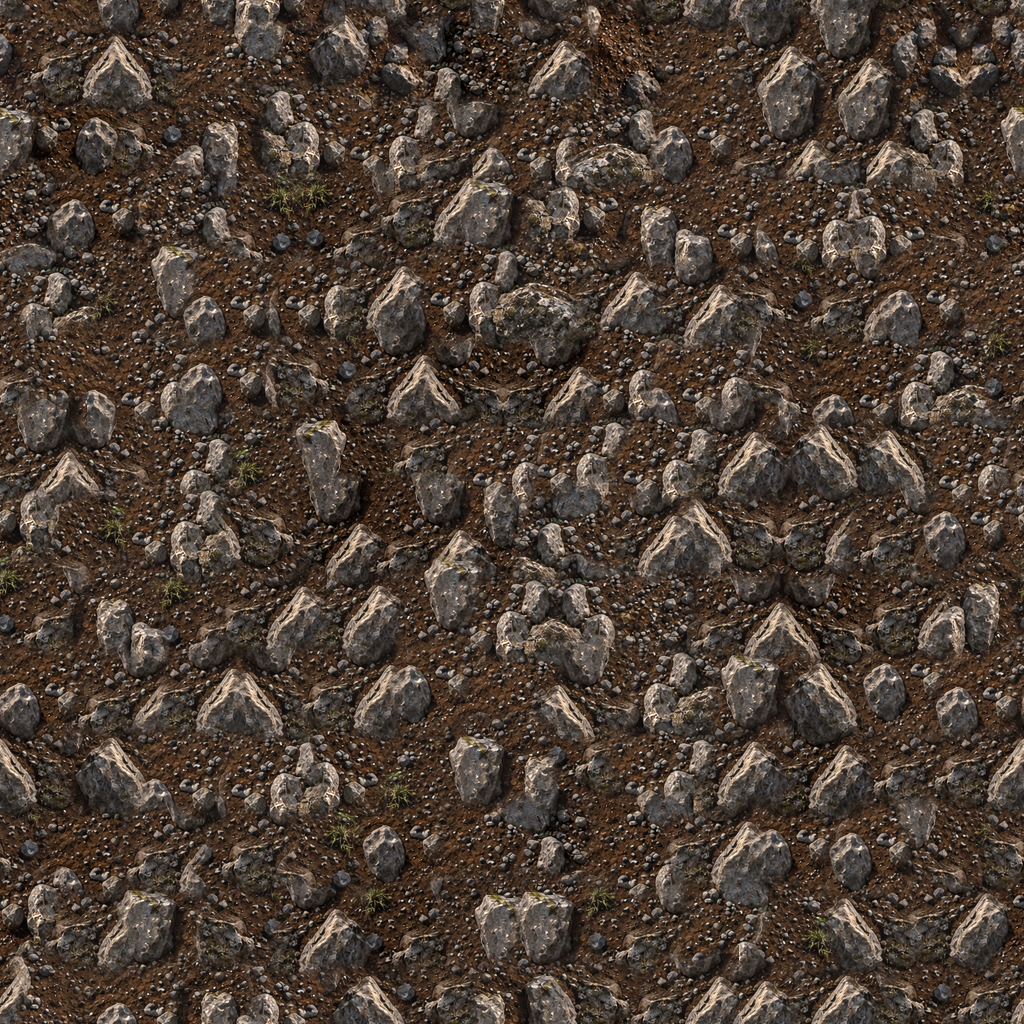
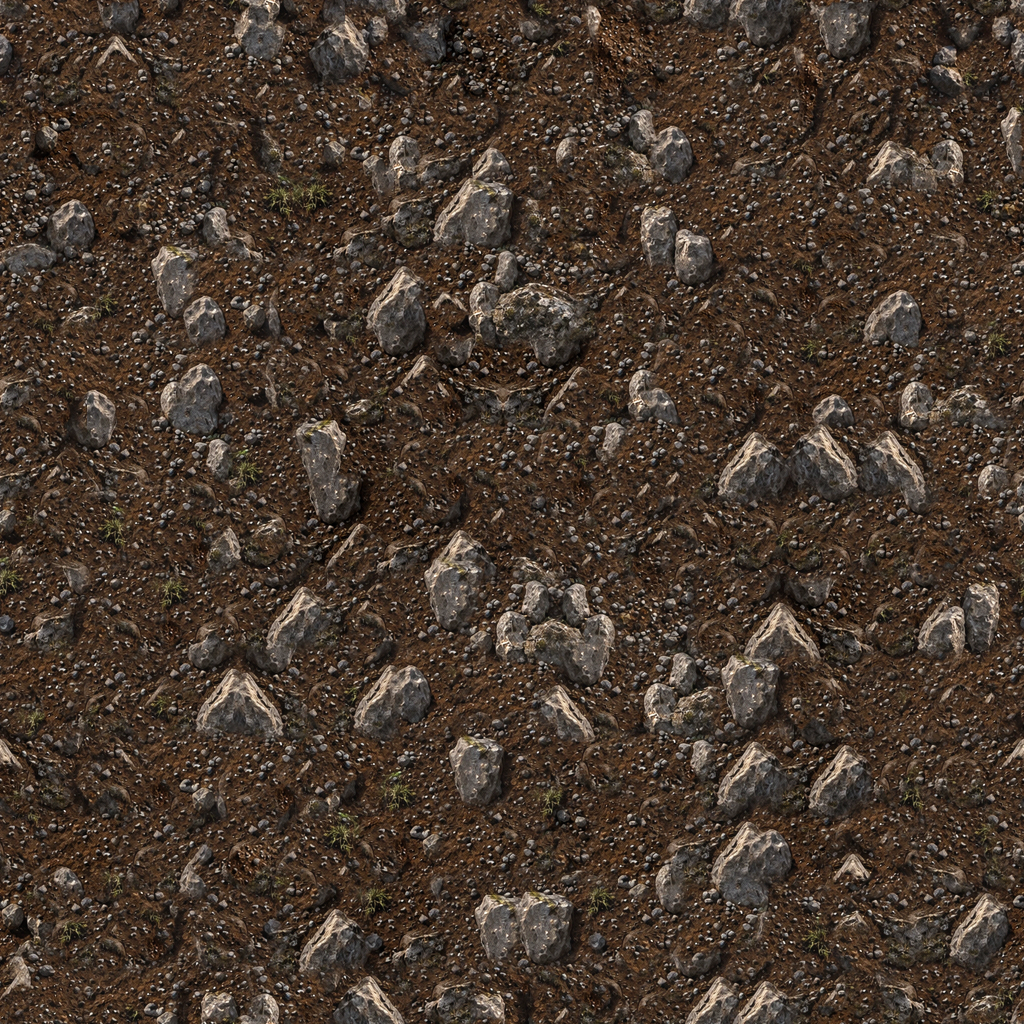
Версия 2026.11.02-114: по критику r36 — каньон: стены тоннелей плитами с трещинами и щебень на полу; долина: валунов вдвое меньше, без повторов
Каньон: задняя стена тоннелей — плиты cave_canyon (родная ×4) в цвете прежней стены; по полу — россыпь песчаникового
щебня в слое растений (чётко при приближении). Долина: dev/tools/thin_boulders.py убирает из грунта повторяющиеся
(и зеркальные) валуны и половину остальных, место заполняется грунтом из другого места родной ×4.

Claude-Session: https://claude.ai/code/session_01JvXrYdG1XCH4i3GESsQzbh

diff --git a/js/terrain_visual.js b/js/terrain_visual.js
@@ -564,7 +564,10 @@ function shadeMaterial(S, mt, x, y, t, capT, d, info, o, isBack) {
     }
   } else if (mt === 12 && (S.tx.rock || S.tx.dirt || S.tx.cave)) {
     // задняя стена: та же порода, что и скала вокруг (в скальных картах), иначе — плиты пещеры
-    if (S.tx.rock) { texAt(S.tx.rock, x + 517, y + 311, o); r = o.r * 1.05 * S.tgR; g = o.g * 1.05 * S.tgG; bl = o.b * 1.05 * S.tgB; o.ga = 0; }
+    if (S.caveBack && S.tx.cave) {   /* v114 (критик r36, каньон: «стены пещер — та же слоистая порода; в эталоне потрескавшиеся плиты»):
+      задняя стена тоннеля — плиты с трещинами (cave_canyon, родная ×4), средний цвет — как у прежней стены из породы (caveBackK) */
+      texAt(S.tx.cave, x, y, o); const K = S.caveBackK; r = o.r * K[0] * S.tgR; g = o.g * K[1] * S.tgG; bl = o.b * K[2] * S.tgB; o.ga = 0; }
+    else if (S.tx.rock) { texAt(S.tx.rock, x + 517, y + 311, o); r = o.r * 1.05 * S.tgR; g = o.g * 1.05 * S.tgG; bl = o.b * 1.05 * S.tgB; o.ga = 0; }
     else if (S.tx.dirt && S.bury) {   /* v94 (эталон valley_tower: стена тоннеля тёмная и ровная — камни на ней не выделяются; у нас — светлые камни и бледные
       круги валунов): тот же грунт, контраст вдвое ниже, темнее */
       texAt(S.tx.dirt, x + 257, y + 131, o); const M = texMeanRGB(S.tx.dirt);
@@ -1068,7 +1071,7 @@ function buildTerrainVisual(T, theme, map, raster, waterY) {
   const capMat = new Uint8Array(16); for (const k of (G.capMats || [1])) capMat[k] = 1;
   const V = getVoronoi();
   const S = {
-    tiles: getTiles(), colOff, vs: V.s, vl: V.l, grassy: !!G.cap.blades && !G.cap.snow, glowTex: G.tex && G.tex.glowTex, glowTex2: G.tex && G.tex.glowTex2, glowRaw: !!(G.tex && G.tex.glowRaw), glowDirt: !!(G.tex && G.tex.glowDirt), glowMin: G.tex && G.tex.glowMin || 150, glowDot: G.tex && G.tex.glowDot || 0.93, glowK: G.tex && G.tex.glowK || 2.4, sod: theme.id === 'valley' || theme.id === 'castle' || theme.id === 'alien', mossLip: theme.id === 'alien', bury: theme.id === 'valley' || theme.id === 'castle', soilBand: theme.id === 'valley' || theme.id === 'castle' ? (() => { const a = new Float32Array(H); for (let yy = 0; yy < H; yy++) a[yy] = 1 + 0.12 * fbm1(yy / 46, seed + 401, 2); return a; })() : null, rootCols: G.tex && G.tex.grass && TexLib.data[G.tex.grass] ? (theme.id === 'valley' || theme.id === 'castle' ? [[83, 100, 49], [68, 75, 38], [51, 44, 29]] : theme.id === 'alien' ? [[70, 66, 40], [52, 50, 30], [40, 34, 24]] /* мох Alien как в эталоне: тёмный оливково-бурый (медиана 65/54/34), а не салатовая полоса */ : [[82, 102, 34], [60, 76, 24], [54, 42, 24]]) : null, tx: { dirt: G.tex && TexLib.data[G.tex.dirt], cave: G.tex && TexLib.data[G.tex.cave], rock: G.tex && TexLib.data[G.tex.rock], concrete: G.tex && TexLib.data[G.tex.concrete], facade: G.tex && TexLib.data[G.tex.facade], cap: G.tex && TexLib.data[G.tex.cap] }, capMean: texMean(G.tex && TexLib.data[G.tex.cap]), capK: (G.tex && G.tex.capK) || 1, texGain: 1, tgR: (G.tex && G.tex.gain) ? (Array.isArray(G.tex.gain) ? G.tex.gain[0] : G.tex.gain) : 1, tgG: (G.tex && G.tex.gain) ? (Array.isArray(G.tex.gain) ? G.tex.gain[1] : G.tex.gain) : 1, tgB: (G.tex && G.tex.gain) ? (Array.isArray(G.tex.gain) ? G.tex.gain[2] : G.tex.gain) : 1, smoothStones: !!G.smoothStones, rimCol: G.stoneRim ? hex2rgb(G.stoneRim) : null, H, pebD: G.pebDensity || 1, snowy: !!G.cap.snow, rubbleCap: theme.id === 'desert', flatSlab: theme.id === 'city', noBoulders: theme.id === 'city', hotCore: !!(G.veins && G.veins.hot), hotRim: G.veins && G.veins.hot ? (() => { const a = new Float32Array(W); for (let x = 0; x < W; x++) { const v = fbm1(x / 70, seed + 141, 2) + 0.4 * fbm1(x / 23, seed + 142, 1); a[x] = Math.max(0, Math.min(1, (v - S_RIM0) / 0.18)); } return a; })() : null, rockDirt: !!G.rockDirt, rimK: G.rimK || 0.2, hullTop: waterY - 300, waterY, backK: G.backK || 1, glass: theme.id === 'tropical', neon: G.neonRim ? G.neonRim.map(hex2rgb) : null, sun: G.sun ? hex2rgb(G.sun) : null, hasWaterline: (theme.id === 'tropical' || theme.id === 'castle') && waterY < H, kelpCol: theme.id === 'tropical' ? [32, 58, 26] : [48, 76, 32], waterDeep: theme.liquid && theme.liquid.deep ? hex2rgb(theme.liquid.deep) : [12, 47, 85],
+    tiles: getTiles(), colOff, vs: V.s, vl: V.l, grassy: !!G.cap.blades && !G.cap.snow, glowTex: G.tex && G.tex.glowTex, glowTex2: G.tex && G.tex.glowTex2, glowRaw: !!(G.tex && G.tex.glowRaw), glowDirt: !!(G.tex && G.tex.glowDirt), glowMin: G.tex && G.tex.glowMin || 150, glowDot: G.tex && G.tex.glowDot || 0.93, glowK: G.tex && G.tex.glowK || 2.4, sod: theme.id === 'valley' || theme.id === 'castle' || theme.id === 'alien', mossLip: theme.id === 'alien', bury: theme.id === 'valley' || theme.id === 'castle', soilBand: theme.id === 'valley' || theme.id === 'castle' ? (() => { const a = new Float32Array(H); for (let yy = 0; yy < H; yy++) a[yy] = 1 + 0.12 * fbm1(yy / 46, seed + 401, 2); return a; })() : null, rootCols: G.tex && G.tex.grass && TexLib.data[G.tex.grass] ? (theme.id === 'valley' || theme.id === 'castle' ? [[83, 100, 49], [68, 75, 38], [51, 44, 29]] : theme.id === 'alien' ? [[70, 66, 40], [52, 50, 30], [40, 34, 24]] /* мох Alien как в эталоне: тёмный оливково-бурый (медиана 65/54/34), а не салатовая полоса */ : [[82, 102, 34], [60, 76, 24], [54, 42, 24]]) : null, tx: { dirt: G.tex && TexLib.data[G.tex.dirt], cave: G.tex && TexLib.data[G.tex.cave], rock: G.tex && TexLib.data[G.tex.rock], concrete: G.tex && TexLib.data[G.tex.concrete], facade: G.tex && TexLib.data[G.tex.facade], cap: G.tex && TexLib.data[G.tex.cap] }, capMean: texMean(G.tex && TexLib.data[G.tex.cap]), capK: (G.tex && G.tex.capK) || 1, texGain: 1, tgR: (G.tex && G.tex.gain) ? (Array.isArray(G.tex.gain) ? G.tex.gain[0] : G.tex.gain) : 1, tgG: (G.tex && G.tex.gain) ? (Array.isArray(G.tex.gain) ? G.tex.gain[1] : G.tex.gain) : 1, tgB: (G.tex && G.tex.gain) ? (Array.isArray(G.tex.gain) ? G.tex.gain[2] : G.tex.gain) : 1, smoothStones: !!G.smoothStones, rimCol: G.stoneRim ? hex2rgb(G.stoneRim) : null, H, pebD: G.pebDensity || 1, snowy: !!G.cap.snow, rubbleCap: theme.id === 'desert', flatSlab: theme.id === 'city', noBoulders: theme.id === 'city', hotCore: !!(G.veins && G.veins.hot), hotRim: G.veins && G.veins.hot ? (() => { const a = new Float32Array(W); for (let x = 0; x < W; x++) { const v = fbm1(x / 70, seed + 141, 2) + 0.4 * fbm1(x / 23, seed + 142, 1); a[x] = Math.max(0, Math.min(1, (v - S_RIM0) / 0.18)); } return a; })() : null, rockDirt: !!G.rockDirt, caveBack: !!(G.tex && G.tex.caveBack), caveBackK: (G.tex && G.tex.caveBackK) || [1, 1, 1], rimK: G.rimK || 0.2, hullTop: waterY - 300, waterY, backK: G.backK || 1, glass: theme.id === 'tropical', neon: G.neonRim ? G.neonRim.map(hex2rgb) : null, sun: G.sun ? hex2rgb(G.sun) : null, hasWaterline: (theme.id === 'tropical' || theme.id === 'castle') && waterY < H, kelpCol: theme.id === 'tropical' ? [32, 58, 26] : [48, 76, 32], waterDeep: theme.liquid && theme.liquid.deep ? hex2rgb(theme.liquid.deep) : [12, 47, 85],
     capCols: G.cap.cols.map(hex2rgb), beach: G.cap.beach ? G.cap.beach.cols.map(hex2rgb) : null,
     beachY: G.cap.beach ? waterY - G.cap.beach.range : 1e9,
     strata: G.strata.map(hex2rgb), L: G.strata.length,
@@ -1960,20 +1963,25 @@ function drawSurfaceDetails(T, theme, seed, waterY, tops, ceils, mat, backArr) {
       }
     }
     // 2б. v104 (критик r35: «тоннель плоский»): щебень на полу тоннелей долины и замков — угловатые камни 2–9 px со светом сверху слева
-    if (theme.id === 'valley' || theme.id === 'castle') {
-      const rubCols = [[92, 86, 78], [78, 72, 64], [104, 98, 88], [68, 62, 54], [86, 82, 76]];
+    // v114 (критик r36, каньон: «карнизы полок из щебня»; эталон — светлая россыпь песчаника по полу тоннелей): и в каньоне, вдвое
+    // гуще; камни — в слое растений (cs): при приближении перерисовываются чётко, а не растягиваются
+    if (theme.id === 'valley' || theme.id === 'castle' || theme.id === 'desert') {
+      const sand = theme.id === 'desert', dens = sand ? 0.22 : 0.07;
+      const rubCols = sand ? [[176, 132, 90], [156, 114, 76], [194, 152, 106], [136, 98, 66], [168, 128, 92]] : [[92, 86, 78], [78, 72, 64], [104, 98, 88], [68, 62, 54], [86, 82, 76]];
       for (let k = 0; k < tops.length; k += 2) {
         const x = tops[k], y = tops[k + 1];
-        if (y > waterY - 4 || !isCaveFloor(x, y) || !flatTop(x, y) || hash3(x, y, seed + 121) > 0.07) continue;
-        const big = hash3(x, y, seed + 122) > 0.78, R = big ? 3 + hash3(x, 1, seed + 123) * 1.6 : 1.1 + hash3(x, 1, seed + 123) * 1.6;
+        if (y > waterY - 4 || !isCaveFloor(x, y) || !flatTop(x, y) || hash3(x, y, seed + 121) > dens) continue;
+        anchor(x, y);
+        const big = hash3(x, y, seed + 122) > (sand ? 0.7 : 0.78), R = (big ? 3 + hash3(x, 1, seed + 123) * 1.6 : 1.1 + hash3(x, 1, seed + 123) * 1.6) * (sand ? 1.35 : 1);
         const col = rubCols[(hash3(x, 2, seed + 124) * rubCols.length) | 0], nv = 5 + ((hash3(x, 3, seed + 125) * 3) | 0), rot = hash3(x, 4, seed + 126) * TAU, cy = y - R * 0.5;
-        c.fillStyle = 'rgba(10,8,6,0.5)'; c.beginPath(); c.ellipse(x + R * 0.3, y + 0.5, R * 1.3, R * 0.4, 0, 0, TAU); c.fill();   // контактная тень
-        const gr = c.createLinearGradient(x - R, cy - R, x + R, cy + R);
+        cs.fillStyle = 'rgba(10,8,6,0.5)'; cs.beginPath(); cs.ellipse(x + R * 0.3, y + 0.5, R * 1.3, R * 0.4, 0, 0, TAU); cs.fill();   // контактная тень
+        const gr = cs.createLinearGradient(x - R, cy - R, x + R, cy + R);
         gr.addColorStop(0, `rgb(${col[0] * 1.3 | 0},${col[1] * 1.3 | 0},${col[2] * 1.28 | 0})`); gr.addColorStop(0.5, `rgb(${col[0]},${col[1]},${col[2]})`); gr.addColorStop(1, `rgb(${col[0] * 0.45 | 0},${col[1] * 0.45 | 0},${col[2] * 0.48 | 0})`);
-        c.fillStyle = gr; c.beginPath();
-        for (let v = 0; v < nv; v++) { const a = rot + v / nv * TAU, rr = R * (0.72 + 0.4 * hash3(x, v + 10, seed + 127)), px = x + Math.cos(a) * rr, py = cy + Math.sin(a) * rr * 0.7; if (v) c.lineTo(px, py); else c.moveTo(px, py); }
-        c.closePath(); c.fill();
+        cs.fillStyle = gr; cs.beginPath();
+        for (let v = 0; v < nv; v++) { const a = rot + v / nv * TAU, rr = R * (0.72 + 0.4 * hash3(x, v + 10, seed + 127)), px = x + Math.cos(a) * rr, py = cy + Math.sin(a) * rr * 0.7; if (v) cs.lineTo(px, py); else cs.moveTo(px, py); }
+        cs.closePath(); cs.fill();
       }
+      anchor(null);
     }
     // 3. Подземный мох / трава с неравным шагом
     let nextMossX = -1;

diff --git a/js/themes.js b/js/themes.js
@@ -44,7 +44,7 @@ const THEMES = {
       strata: ['#e39b5b', '#c97944', '#f2b877', '#b4643a', '#d98b52', '#a8552f', '#eaa66a'], band: 17, bandSharp: 0.55,
       rock: ['#d98b52', '#c47444', '#e8a468', '#b3623a', '#cf8250'],
       pebbles: ['#b98a5e', '#9c6f48', '#d0a57a'],
-      outline: '#4d240f', veins: null, ceiling: null, capMats: [1, 2], tex: { dirt: 'dirt_canyon', rock: 'rock_canyon', cave: 'cave_canyon', cap: 'cap_sand', gain: [0.94, 0.98, 1.08] /* v88: по замеру r34 порода была на 47 % светлее эталона (L 96 против 66); r24: порода каньона была на 22 % ярче эталона */ },
+      outline: '#4d240f', veins: null, ceiling: null, capMats: [1, 2], tex: { dirt: 'dirt_canyon', rock: 'rock_canyon', cave: 'cave_canyon', cap: 'cap_sand', caveBack: true, caveBackK: [2.48, 2.93, 3.46] /* v114: стены тоннелей — плиты cave_canyon, средний цвет как у прежней стены из породы (×1,05 к rock_canyon) */, gain: [0.94, 0.98, 1.08] /* v88: по замеру r34 порода была на 47 % светлее эталона (L 96 против 66); r24: порода каньона была на 22 % ярче эталона */ },
     },
     scatter: ['rock', 'drygrass', 'cactusSmall', 'drygrass', 'rock', 'drygrass', 'skull', 'tumbleweed'], scatterRock: true,
     weather: 'dust', birds: false, ambient: null, ambientSound: 'wind',

diff --git a/index.html b/index.html
@@ -114,7 +114,7 @@
         </div>
       </div>
     </div>
-    <footer class="menu-footer"><span id="game-version">ВЕРСИЯ 2026.11.02-113</span><span>ПЛАНИРУЙ ХОД. МЕНЯЙ ЛАНДШАФТ.</span><span class="footer-status"><i></i> ГОТОВ К БОЮ</span></footer>
+    <footer class="menu-footer"><span id="game-version">ВЕРСИЯ 2026.11.02-114</span><span>ПЛАНИРУЙ ХОД. МЕНЯЙ ЛАНДШАФТ.</span><span class="footer-status"><i></i> ГОТОВ К БОЮ</span></footer>
   </section>
 
   <!-- Онлайн -->

diff --git a/dev/tools/thin_boulders.py b/dev/tools/thin_boulders.py
@@ -1,0 +1,114 @@
+"""Прореживает валуны в грунте (критик r36, долина: «валунов 11,5 % — почти вдвое больше эталона; ряд одинаковых "шатров"»:
+сшивка из эталона брала один и тот же лоскут с валуном много раз, в том числе зеркально).
+
+python dev/tools/thin_boulders.py <родная.webp> <выход.png> [--keep 0.55] [--seed 3]
+затем: python dev/make_native.py <выход.png> <имя> --no-match --lossy --quality 90   (малая — точное уменьшение родной)
+
+1) валуны — серые (ненасыщенные) пятна на малой копии (÷4): сглаженные насыщенность < --S и яркость > --L, компоненты от
+   --min px (мелкая галька меньше — остаётся);
+2) повторы: отпечаток каждого валуна — яркость рамки 12×12 (и зеркальная); похожие (косинус > --sim, размер ±20 %) — одна
+   группа, из группы остаётся один валун;
+3) затем убираются случайные валуны, пока их площадь не станет --keep от исходной;
+4) место убранного валуна (с тенью — маска расширена) заполняется грунтом без валунов из соседнего места (сдвиг подбирается,
+   с заворотом — текстура бесшовна), края мягкие. Работа на родной ×4, чтобы при приближении всё было чётко.
+"""
+import argparse
+
+import numpy as np
+from PIL import Image
+from scipy import ndimage as nd
+
+Image.MAX_IMAGE_PIXELS = None
+
+
+def box(a, k):
+    h, w = a.shape[0] // k, a.shape[1] // k
+    return a[:h * k, :w * k].reshape(h, k, w, k, -1).mean((1, 3))
+
+
+def main():
+    ap = argparse.ArgumentParser()
+    ap.add_argument('src'); ap.add_argument('out')
+    ap.add_argument('--keep', type=float, default=0.55); ap.add_argument('--seed', type=int, default=3)
+    ap.add_argument('--L', type=float, default=50); ap.add_argument('--S', type=float, default=0.24)
+    ap.add_argument('--min', type=int, default=150); ap.add_argument('--sim', type=float, default=0.9)
+    a = ap.parse_args()
+    rng = np.random.default_rng(a.seed)
+    N = np.asarray(Image.open(a.src).convert('RGB'), dtype=np.float32); K = 4
+    S = box(N, K)                                                          # малая копия для поиска валунов
+    L = S @ np.array([0.299, 0.587, 0.114], np.float32)
+    sat = (S.max(2) - S.min(2)) / np.maximum(S.max(2), 1)
+    m = (nd.gaussian_filter(L, 2.5, mode='wrap') > a.L) & (nd.gaussian_filter(sat, 2.5, mode='wrap') < a.S)
+    m = nd.binary_opening(nd.binary_closing(m, iterations=3), iterations=2)
+    lab, n = nd.label(m)
+    sl = nd.find_objects(lab); area = nd.sum(m, lab, range(1, n + 1))
+    ids = [i for i in range(n) if area[i] >= a.min]
+    total = float(sum(area[i] for i in ids))
+    print('boulders: %d, area %.3f of texture' % (len(ids), total / m.size))
+    # отпечатки
+    F = []; Fm = []; HW = []
+    for i in ids:
+        ys, xs = sl[i]; crop = L[ys, xs]
+        im = np.asarray(Image.fromarray(crop.astype(np.float32)).resize((12, 12), Image.BILINEAR), np.float32)
+        v = im.ravel() - im.mean(); v /= np.linalg.norm(v) + 1e-6
+        vm = im[:, ::-1].ravel() - im.mean(); vm /= np.linalg.norm(vm) + 1e-6
+        F.append(v); Fm.append(vm); HW.append((ys.stop - ys.start, xs.stop - xs.start))
+    F = np.array(F); Fm = np.array(Fm); HW = np.array(HW, np.float32)
+    sim = np.maximum(F @ F.T, F @ Fm.T)
+    size_ok = (np.abs(HW[:, None, 0] - HW[None, :, 0]) <= 0.2 * HW[:, None, 0] + 1) & (np.abs(HW[:, None, 1] - HW[None, :, 1]) <= 0.2 * HW[:, None, 1] + 1)
+    dup = (sim > a.sim) & size_ok; np.fill_diagonal(dup, False)
+    parent = list(range(len(ids)))
+    def find(x):
+        while parent[x] != x: parent[x] = parent[parent[x]]; x = parent[x]
+        return x
+    for p, q in zip(*np.nonzero(dup)):
+        rp, rq = find(p), find(q)
+        if rp != rq: parent[rp] = rq
+    groups = {}
+    for j in range(len(ids)): groups.setdefault(find(j), []).append(j)
+    remove = set()
+    for g in groups.values():
+        if len(g) > 1:
+            keep1 = g[rng.integers(len(g))]; remove.update(j for j in g if j != keep1)
+    print('duplicate groups: %d, duplicates removed: %d' % (sum(1 for g in groups.values() if len(g) > 1), len(remove)))
+    left = total - sum(area[ids[j]] for j in remove)
+    order = [j for j in rng.permutation(len(ids)) if j not in remove]
+    for j in order:
+        if left <= a.keep * total: break
+        remove.add(j); left -= area[ids[j]]
+    print('removed %d of %d, boulder area %.3f → %.3f' % (len(remove), len(ids), total / m.size, left / m.size))
+    # заполнение грунтом
+    busy = nd.binary_dilation(m, iterations=5)                              # валуны с тенью и кромкой — не источник
+    out = N.copy(); H, W = L.shape; done = 0
+    for j in remove:
+        i = ids[j]; ys, xs = sl[i]
+        y0, y1, x0, x1 = ys.start - 12, ys.stop + 12, xs.start - 12, xs.stop + 12
+        yy = np.arange(y0, y1) % H; xx = np.arange(x0, x1) % W
+        comp = lab[np.ix_(yy, xx)] == i + 1
+        tgt = nd.binary_dilation(comp, iterations=4) | (nd.binary_dilation(comp, iterations=9) & (L[np.ix_(yy, xx)] > 100))   # тень и светлый гребень «шатра»
+        tgt = nd.binary_dilation(tgt, iterations=1)
+        best, bf = None, 1.0                                               # источник — где меньше всего валунов (по всей текстуре)
+        for _ in range(3000):
+            dy, dx = rng.integers(0, H), rng.integers(0, W)
+            if min(dy, H - dy) < (y1 - y0) and min(dx, W - dx) < (x1 - x0): continue
+            f = busy[np.ix_((yy + dy) % H, (xx + dx) % W)].mean()
+            if f < bf: best, bf = (dy, dx), f
+            if f == 0: break
+        if best is None or bf > 0.08: continue
+        dy, dx = best
+        alpha = nd.gaussian_filter(np.kron(tgt.astype(np.float32), np.ones((K, K), np.float32)), 5)
+        alpha = np.clip(alpha * 1.6, 0, 1)[..., None]
+        Y = (np.arange(y0 * K, y1 * K)) % (H * K); X = (np.arange(x0 * K, x1 * K)) % (W * K)
+        Ys = (Y + dy * K) % (H * K); Xs = (X + dx * K) % (W * K)
+        out[np.ix_(Y, X)] = out[np.ix_(Y, X)] * (1 - alpha) + out[np.ix_(Ys, Xs)] * alpha
+        sub = busy[np.ix_(yy, xx)]; sub[tgt] = False; busy[np.ix_(yy, xx)] = sub   # убранное место — уже грунт, годится в источник
+        done += 1
+    print('filled %d' % done)
+    S2 = box(out, K); L2 = S2 @ np.array([0.299, 0.587, 0.114], np.float32); sat2 = (S2.max(2) - S2.min(2)) / np.maximum(S2.max(2), 1)
+    m2 = (nd.gaussian_filter(L2, 2.5, mode='wrap') > a.L) & (nd.gaussian_filter(sat2, 2.5, mode='wrap') < a.S)
+    print('boulder fraction (classifier) %.3f → %.3f' % (m.mean(), m2.mean()))
+    Image.fromarray(np.clip(out, 0, 255).round().astype(np.uint8)).save(a.out)
+
+
+if __name__ == '__main__':
+    main()

diff --git a/dev/reviews/r29.md b/dev/reviews/r29.md
@@ -189,3 +189,4 @@ v110 (по r36): трава долины и замков — оттенок те
 v111 (по r36, пираты): вода — полоса поверхности моря 56 ед. у ватерлинии из Blender (dev/blender/make_sea.py: океан JONSWAP + рябь вторым океаном с периодом P/8, ортокамера под 13° — лента 3072×320 бесшовна по горизонтали; второй проход — только солнечные блики): в игре кладётся полосами по целым пикселям экрана с перспективой (у борта волны мельче и сжаты, к зрителю в 2,6 раза крупнее; ближние ряды при сдвиге камеры плывут быстрее), мип-уровни с сохранением контраста (вдали гребни не гаснут), дрейф по ветру, отражение кадра ослаблено, блики — два встречных слоя попеременно, ярче на дорожке под солнцем; пена у борта и камней, светлая нижняя кромка полосы, ниже — бирюзовая толща с лучами и каустикой. Полоса воды: σL 24 при эталоне 22–33 (было 9,7), p99 151 (эталон 128–196), средняя 36/52/62 (эталон 31–38/50–58/54–63). «Пунктир» на борту — граница запаса хода: теперь видна только в 220 ед. от бойца.
 v112 (по r36, Alien): друзы — 6–11 гранёных призм и 3–5 мелких сколов у основания (make_decor.py crystals: было 3–5), стекло светится изнутри — ровное ядро, яркая кайма по скользящим граням, у каждой грани своя яркость (mat_crystal, вид Standard вместо AgX — насыщенно, без пастели), ореол в игре шире и ярче (0,55 в центре, радиус 0,6 размера); мох шапки — бархатные подушки 1–7 ед. с густым ворсом побегов 0,25–0,5 ед. из Blender (dev/blender/make_moss.py → cap_moss, родная ×4 2048², при приближении чётко), цвет шапки ровный оливково-золотой (MOSS_C), контраст подушек ×0,65 (capK); свес — тот же мох. Полоса мха: p90 115/100/72 (цель 130/110/70; было 69/67/27 — «соломенные пряди»).
 v113 (по r36, Арктика): порода rock_arctic без «соли» — светлые крупинки уже 7 px родной на тёмном фоне сведены к медиане окрестности (dev/tools/desalt_rock.py; изолированных светлых точек в кадре ×0,26, R родной 0,83 → 0,82), иней — голубоватый налёт пятнами у верха плит под снежными полосами (24 px родной), снег на уступах ×1,15 и белее, сосульки в самой текстуре под ~30 % кромок снежных полос (группами, шаг 4–12 px, 6–60 px длиной — 1,5–15 ед., светлая левая грань, голубая правая, капля), искры в снежной шапке втрое реже и мягче. Снег в кадре: p90 яркости 195.
+v114 (по r36, каньон и долина): каньон — задняя стена тоннелей из плит с трещинами (cave_canyon, родная ×4; средний цвет — как у прежней стены из породы, caveBackK), по полу тоннелей — россыпь песчаникового щебня (вдвое гуще, чем в долине, крупнее; в слое растений — чётко при приближении); долина — в грунте dirt_valley валунов вдвое меньше и без повторов: dev/tools/thin_boulders.py находит серые пятна валунов на малой копии, сводит похожие (и зеркальные) в группы — из группы остаётся один, затем случайные до половины площади; место заполняется грунтом без валунов из другого места родной ×4 (площадь валунов по классификатору 23,5 % → 12,3 %, 140 из 242 убраны, «шатры» — повторы одного лоскута — исчезли).

diff --git a/dev/NEXT_STEPS.md b/dev/NEXT_STEPS.md
@@ -18,8 +18,8 @@
 - [x] v112: Alien — друзы 6–11 светящихся изнутри призм с ореолом, бархатный мох подушками из Blender (make_moss.py, cap_moss).
 - [ ] Alien: кристаллы в толще породы (rock_alien) — пучки по 2–4 «бабочкой»; если критик r37 отметит — перерисовать пучки (make_rubble.py, alien_crystals2.py).
 - [x] v113: Арктика — порода без «соли» (desalt_rock.py), иней у верха плит, снег на уступах ярче, сосульки под ~30 % кромок.
-- [ ] Дальше по r36: каньон — стены пещер плитами, карнизы из щебня; долина —
-  валунов вдвое меньше, без повторяющихся «шатров» в dirt_valley; замки — тёплые угловатые камни в грунте.
+- [x] v114: каньон — стены тоннелей плитами с трещинами, щебень на полу; долина — валунов вдвое меньше, без повторов (thin_boulders.py).
+- [ ] Замки: тёплые угловатые камни в грунте (make_soil.py angular, warm_stones.py) — v115.
 - [ ] Чёткость (цель 28.10): деревья ×5, зерно мягких родных текстур (facade_city, wood_hull, cap_snow…), критик r37.
 
 ## Версии 100–105 — 26–28.10 (правки критика r35; подробно — dev/reviews/r29.md)
